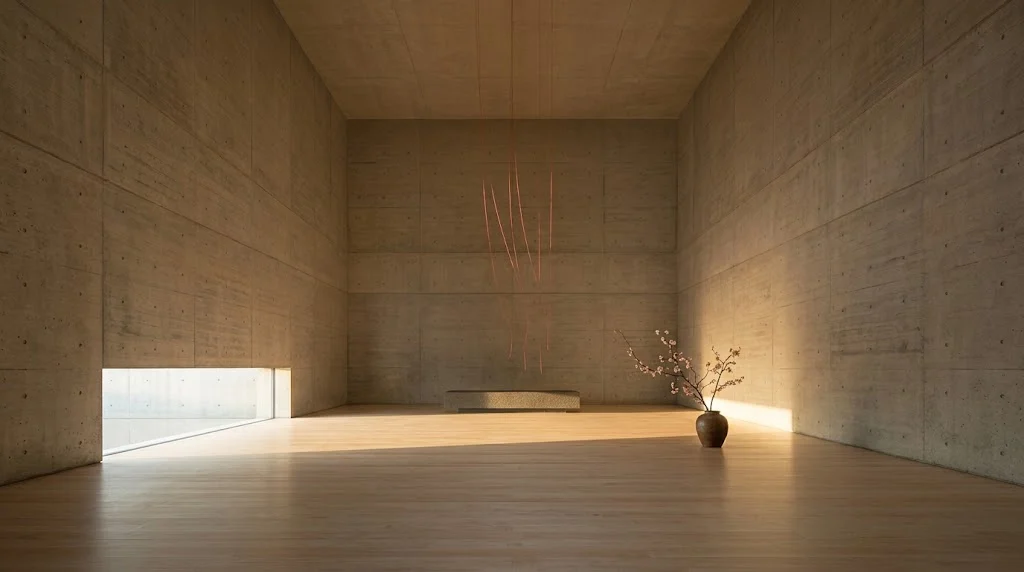
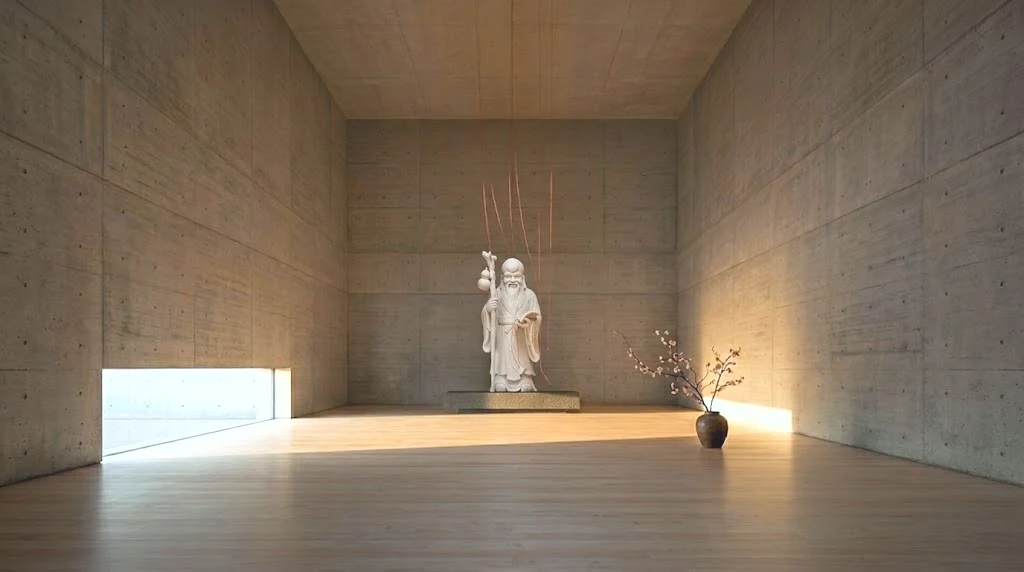
Temple halls: statues baked into color-graded photos (unified warm grey), breathing halo, tap statue to pray
Claude-Session: https://claude.ai/code/session_01WT61VZ4MhdTC2Vy4EDZdFG

diff --git a/temple/index.html b/temple/index.html
@@ -8,11 +8,13 @@
 *{box-sizing:border-box}
 html,body{margin:0;height:100%;background:#1c1b19;color:var(--ink);font-family:"Noto Serif TC","Songti TC","PMingLiU",serif;overflow:hidden;-webkit-tap-highlight-color:transparent}
 #bg{position:fixed;inset:0;width:100%;height:100%;object-fit:cover;transition:opacity .7s}
-#gl{position:fixed;inset:0;width:100%;height:100%;touch-action:none;transition:opacity .7s}
-#shadow{position:fixed;pointer-events:none;border-radius:50%;background:radial-gradient(closest-side,rgba(0,0,0,.42),rgba(0,0,0,0));transition:opacity .7s}
-.fade #bg,.fade #gl,.fade #shadow{opacity:0}
-#veil{position:fixed;inset:0;pointer-events:none;background:linear-gradient(rgba(0,0,0,.35),rgba(0,0,0,0) 22%,rgba(0,0,0,0) 62%,rgba(0,0,0,.55))}
-#glow{position:fixed;inset:0;pointer-events:none;opacity:0;transition:opacity 2.2s;background:radial-gradient(40% 55% at 50% 58%,rgba(255,248,226,.35),rgba(255,248,226,0))}
+#hit{position:fixed;background:none;border:0;padding:0;cursor:pointer;border-radius:40% 40% 8px 8px}
+#halo{position:fixed;pointer-events:none;border-radius:50%;background:radial-gradient(closest-side,rgba(255,250,236,.22),rgba(255,250,236,0));mix-blend-mode:screen;animation:breath 7s ease-in-out infinite}
+@keyframes breath{0%,100%{opacity:.15}50%{opacity:.75}}
+.calm #halo{animation:none;opacity:1;transition:opacity 1.5s}
+.fade #bg,.fade #halo{opacity:0}
+#veil{position:fixed;inset:0;pointer-events:none;background:linear-gradient(rgba(0,0,0,.22),rgba(0,0,0,0) 16%,rgba(0,0,0,0) 74%,rgba(0,0,0,.32))}
+#glow{position:fixed;inset:0;pointer-events:none;opacity:0;transition:opacity 2.2s;background:rgba(255,248,230,.06)}
 .calm #glow{opacity:1}
 header{position:fixed;top:calc(12px + env(safe-area-inset-top));left:0;right:0;text-align:center;pointer-events:none}
 header h1{margin:0;font-size:22px;letter-spacing:.3em;font-weight:500;text-shadow:0 1px 10px rgba(0,0,0,.7),0 0 2px rgba(0,0,0,.5)}
@@ -25,7 +27,7 @@ footer{position:fixed;left:0;right:0;bottom:calc(14px + env(safe-area-inset-bott
 #halls{display:flex;gap:6px}
 #halls button{font:inherit;font-size:14px;color:var(--mute);background:none;border:0;padding:6px 10px;cursor:pointer;letter-spacing:.1em;border-bottom:1px solid transparent}
 #halls button.on{color:var(--ink);border-bottom-color:var(--ink)}
-#hint{font-size:13px;color:var(--mute);min-height:1.2em;text-align:center;letter-spacing:.08em;transition:opacity .6s}
+#hint{font-size:13px;color:var(--ink);text-shadow:0 1px 6px rgba(0,0,0,.85);min-height:1.2em;text-align:center;letter-spacing:.08em;transition:opacity .6s}
 .sheet{position:fixed;inset:0;z-index:10;display:flex;align-items:flex-end;justify-content:center;background:rgba(0,0,0,.35)}
 .sheet[hidden]{display:none}
 .box{width:min(520px,100%);max-height:82vh;overflow:auto;background:#24211e;border:1px solid var(--line);border-radius:20px 20px 0 0;padding:20px 18px calc(18px + env(safe-area-inset-bottom))}
@@ -49,8 +51,7 @@ label.f{display:block;font-size:13px;color:var(--mute);margin:10px 0 6px}
 </style>
 </head><body>
 <img id="bg" alt="">
-<canvas id="gl"></canvas>
-<div id="shadow"></div>
+<div id="halo"></div><button id="hit" aria-label="參拜神像"></button>
 <div id="veil"></div><div id="glow"></div>
 <header><h1 id="ttl"></h1><p id="sub"></p></header>
 <button class="btn" id="back">← 前殿</button>
@@ -62,17 +63,16 @@ label.f{display:block;font-size:13px;color:var(--mute);margin:10px 0 6px}
 </footer>
 <div class="sheet" id="sheet" hidden><div class="box" id="box" role="dialog" aria-modal="true"></div></div>
 <script src="../sync/origina-sync.js" data-app="bedside" data-folder="Bedside" data-keys="origina.bedside.v1,origina.prayer.v1" data-pos="br" data-offset="160"></script>
-<script src="../three.min.js"></script>
 <script>
 "use strict";
 const PKEY="origina.prayer.v1";
 const HALLS={
-  yuelao:{name:"月老殿",sub:"愛・先愛自己，再遇見對的人",img:"img/yuelao.webp",px:[512,393],h:1.55,
-    ask:"想對自己說的愛，或想遇見什麼樣的人？",hint:"點月老，說說心裡的愛",light:[0xFFD2A0,-1,.35,.7,1.25],amb:0x6b5a4a},
-  mazu:{name:"媽祖殿",sub:"出發平安・旅行、手術、上台",img:"img/mazu.webp",px:[512,394],h:1.65,
-    ask:"要去哪裡？為了什麼出發？",hint:"點媽祖，求出發平安",dated:1,light:[0xE4EEFF,0,1,.35,1.2],amb:0x4c5664},
-  caishen:{name:"財神殿",sub:"豐盛・夠用，而且越來越多",img:"img/caishen.webp",px:[512,393],h:1.5,
-    ask:"想要什麼樣的豐盛？可以寫數字，也可以寫畫面。",hint:"點財神爺，說說想要的豐盛",light:[0xFFD98A,.2,1,.6,1.0],amb:0x5e4f3a}
+  yuelao:{name:"月老殿",sub:"愛・先愛自己，再遇見對的人",img:"img/yuelao.webp",stat:[474,252,550,394],
+    ask:"想對自己說的愛，或想遇見什麼樣的人？",hint:"點月老，說說心裡的愛"},
+  mazu:{name:"媽祖殿",sub:"出發平安・旅行、手術、上台",img:"img/mazu.webp",stat:[474,182,550,394],
+    ask:"要去哪裡？為了什麼出發？",hint:"點媽祖，求出發平安",dated:1},
+  caishen:{name:"財神殿",sub:"豐盛・夠用，而且越來越多",img:"img/caishen.webp",stat:[462,206,562,394],
+    ask:"想要什麼樣的豐盛？可以寫數字，也可以寫畫面。",hint:"點財神爺，說說想要的豐盛"}
 };
 const ORDER=["yuelao","mazu","caishen"];
 const ls=(k,v)=>{try{if(v===undefined)return JSON.parse(localStorage.getItem(k)||"null");localStorage.setItem(k,JSON.stringify(v));}catch(e){return null;}};
@@ -81,91 +81,24 @@ const esc=s=>String(s==null?"":s).replace(/[&<>"']/g,c=>({"&":"&amp;","<":"&lt;"
 const pad=n=>String(n).padStart(2,"0"),ymd=d=>`${d.getFullYear()}-${pad(d.getMonth()+1)}-${pad(d.getDate())}`;
 let cur=new URLSearchParams(location.search).get("d");if(!HALLS[cur])cur="mazu";
 
-/* ---------- 3D 神像（白色，像石膏） ---------- */
-const R=THREE,canvas=$("#gl");
-const ren=new R.WebGLRenderer({canvas,alpha:true,antialias:true});ren.setPixelRatio(Math.min(devicePixelRatio,2));
-const scene=new R.Scene(),cam=new R.OrthographicCamera(-1,1,1,-1,-5000,5000);
-const hemi=new R.HemisphereLight(0xffffff,0x444444,.55);scene.add(hemi);
-const key=new R.DirectionalLight(0xffffff,1.2);scene.add(key);
-const rim=new R.DirectionalLight(0xffffff,.25);rim.position.set(.3,.4,-1);scene.add(rim);
-const W=new R.MeshStandardMaterial({color:0xECE8E0,roughness:.7,metalness:0});
-const GOLD=new R.MeshStandardMaterial({color:0xE6D29C,roughness:.45,metalness:.25});
-const RED=new R.MeshStandardMaterial({color:0xC8323C,roughness:.5});
-const V=(x,y)=>new R.Vector2(x,y);
-function add(g,geo,m,x,y,z,rx,ry,rz,sx,sy,sz){const o=new R.Mesh(geo,m||W);o.position.set(x||0,y||0,z||0);o.rotation.set(rx||0,ry||0,rz||0);if(sx)o.scale.set(sx,sy,sz);g.add(o);return o;}
-function lathe(pts){return new R.LatheGeometry(pts.map(p=>V(p[0],p[1])),48);}
-function lotus(g,r){add(g,new R.CylinderGeometry(r,r*1.08,.035,40),W,0,.0175,0);
-  for(let i=0;i<16;i++){const a=i/16*Math.PI*2,p=add(g,new R.SphereGeometry(.05,16,10),W,Math.sin(a)*r*.92,.05,Math.cos(a)*r*.92,0,a,0,.55,.45,.9);p.rotation.x=-.35;p.rotation.order="YXZ";}}
-function sleeve(g,x,y,z,s){const o=add(g,lathe([[0,-.13],[.055,-.13],[.06,-.11],[.05,-.02],[.036,.06],[.028,.1],[0,.1]]),W,x,y,z,.18,0,x>0?.12:-.12,s,s,s*.85);return o;}
-function shoulder(g,y,r){add(g,new R.SphereGeometry(r,32,16,0,Math.PI*2,0,Math.PI/2),W,0,y,0,0,0,0,1,.32,.8);}
-function buildMazu(){const g=new R.Group();lotus(g,.19);
-  add(g,lathe([[0,.05],[.165,.05],[.17,.12],[.15,.32],[.125,.5],[.112,.6],[.122,.655],[.13,.672],[.07,.7],[.04,.712],[0,.715]]),W,0,0,0);
-  add(g,new R.TorusGeometry(.075,.016,10,36),W,0,.69,0,Math.PI/2,0,0,1,1,.6);   // 雲肩
-  shoulder(g,.665,.13);sleeve(g,-.105,.53,.035,1);sleeve(g,.105,.53,.035,1);
-  add(g,new R.SphereGeometry(.03,14,10),W,0,.54,.115,0,0,0,1.4,.8,.9);            // 雙手
-  add(g,new R.BoxGeometry(.032,.17,.012),W,0,.6,.13,-.12,0,0);                     // 笏
-  add(g,new R.CylinderGeometry(.03,.034,.03,16),W,0,.725,0);                      // 頸
-  add(g,new R.SphereGeometry(.056,28,20),W,0,.785,0,0,0,0,1,1.08,1);              // 頭
-  add(g,new R.CylinderGeometry(.052,.058,.04,24),W,0,.84,-.004);                  // 冠
-  add(g,new R.BoxGeometry(.14,.008,.1),W,0,.865,0);                               // 冕板
-  for(let i=0;i<5;i++){const x=-.052+i*.026;for(let k=0;k<4;k++){add(g,new R.SphereGeometry(.0065,8,6),W,x,.852-k*.016,.05);add(g,new R.SphereGeometry(.0065,8,6),W,x,.852-k*.016,-.05);}}
-  return g;}
-function buildYuelao(){const g=new R.Group();lotus(g,.18);
-  add(g,lathe([[0,.05],[.16,.05],[.168,.11],[.148,.3],[.13,.46],[.138,.54],[.12,.575],[.06,.6],[.035,.612],[0,.615]]),W,0,0,0);
-  add(g,new R.TorusGeometry(.12,.012,8,40),W,0,.36,0,Math.PI/2,0,0,1,1,.9);       // 腰帶
-  shoulder(g,.57,.125);sleeve(g,-.1,.45,.035,.92);sleeve(g,.11,.46,.02,.85);
-  add(g,new R.SphereGeometry(.062,28,20),W,0,.675,.005,0,0,0,1,1.18,1);           // 頭（長壽額）
-  add(g,new R.ConeGeometry(.04,.17,18),W,0,.55,.05,Math.PI+.18,0,0);              // 長鬍
-  add(g,new R.CylinderGeometry(.007,.007,.82,10),W,.175,.45,.03);                 // 杖
-  add(g,new R.SphereGeometry(.024,14,10),W,.162,.56,.045);                        // 握杖的手
-  add(g,new R.SphereGeometry(.03,16,12),W,.21,.73,.03);add(g,new R.SphereGeometry(.021,16,12),W,.21,.775,.03); // 葫蘆
-  const book=add(g,new R.BoxGeometry(.075,.095,.022),W,-.07,.43,.11,.2,.35,0);     // 姻緣簿
-  add(g,new R.SphereGeometry(.024,14,10),W,-.045,.4,.12);
-  const c=new R.CatmullRomCurve3([[-.04,.4,.13],[.0,.33,.17],[-.06,.24,.18],[.03,.16,.19],[-.02,.09,.2],[.06,.055,.22]].map(p=>new R.Vector3(...p)));
-  add(g,new R.TubeGeometry(c,80,.0035,6,false),RED,0,0,0);                        // 紅線
-  return g;}
-function buildCaishen(){const g=new R.Group();lotus(g,.2);
-  add(g,lathe([[0,.05],[.17,.05],[.18,.1],[.195,.22],[.2,.32],[.185,.44],[.158,.54],[.15,.6],[.14,.625],[.06,.648],[.04,.66],[0,.662]]),W,0,0,0);
-  add(g,new R.TorusGeometry(.175,.014,8,44),W,0,.4,0,Math.PI/2,0,0,1,1,.85);      // 玉帶
-  shoulder(g,.62,.15);sleeve(g,-.12,.49,.05,1.05);sleeve(g,.12,.49,.05,1.05);
-  add(g,new R.SphereGeometry(.03,14,10),W,-.05,.47,.15);add(g,new R.SphereGeometry(.03,14,10),W,.05,.47,.15);
-  const ing=new R.Group();ing.position.set(0,.5,.17);g.add(ing);                  // 元寶
-  add(ing,new R.SphereGeometry(.06,28,16),GOLD,0,0,0,0,0,0,1.25,.48,.7);
-  add(ing,new R.SphereGeometry(.026,20,14),GOLD,0,.022,0,0,0,0,1,.9,1);
-  add(g,new R.SphereGeometry(.066,28,20),W,0,.725,0,0,0,0,1.05,1,1);              // 頭
-  add(g,new R.ConeGeometry(.022,.07,12),W,0,.66,.05,Math.PI+.15,0,0);             // 短鬚
-  add(g,new R.CylinderGeometry(.06,.064,.06,24),W,0,.795,-.005);                  // 官帽
-  add(g,new R.SphereGeometry(.05,24,12,0,Math.PI*2,0,Math.PI/2),W,0,.82,-.02,0,0,0,1,.7,1);
-  [-1,1].forEach(s=>add(g,new R.BoxGeometry(.11,.012,.03),W,s*.11,.815,-.03,0,0,s*.22)); // 帽翅
-  return g;}
-const BUILD={mazu:buildMazu,yuelao:buildYuelao,caishen:buildCaishen};
-let statue=null,box={x:0,y:0,w:0,h:0};
+/* ---------- 神像在照片裡；這裡只負責點得到、會呼吸的光 ---------- */
+let box={x:0,y:0,w:0,h:0};
 function setHall(id,instant){
   const H=HALLS[id];cur=id;document.body.classList.add("fade");
   const go=()=>{
     $("#bg").src=H.img;$("#ttl").textContent=H.name;$("#sub").textContent=H.sub;$("#hint").textContent=H.hint;
-    if(statue)scene.remove(statue);statue=BUILD[id]();scene.add(statue);
-    const [c,lx,ly,lz,i]=H.light;key.color.setHex(c);key.position.set(lx,ly,lz);key.intensity=i;hemi.groundColor.setHex(H.amb);
     document.querySelectorAll("#halls button").forEach(b=>b.classList.toggle("on",b.dataset.h===id));
     try{history.replaceState(null,"","?d="+id)}catch(e){}
     layout();const done=()=>document.body.classList.remove("fade");$("#bg").complete?requestAnimationFrame(done):($("#bg").onload=done);};
   instant?go():setTimeout(go,450);}
-function layout(){const w=innerWidth,h=innerHeight;ren.setSize(w,h,false);cam.left=-w/2;cam.right=w/2;cam.top=h/2;cam.bottom=-h/2;cam.updateProjectionMatrix();
-  if(!statue)return;const H=HALLS[cur],s=Math.max(w/1024,h/572),ox=(w-1024*s)/2,oy=(h-572*s)/2;
-  const bx=ox+H.px[0]*s,by=oy+H.px[1]*s,sz=135*s*H.h/.88*.8;   // 台座寬 135px
-  statue.position.set(bx-w/2,h/2-by,0);statue.scale.setScalar(sz);
-  box={x:bx-sz*.22,y:by-sz*.9,w:sz*.44,h:sz*.9};
-  const sh=$("#shadow");sh.style.width=(sz*.5)+"px";sh.style.height=(sz*.07)+"px";sh.style.left=(bx-sz*.25)+"px";sh.style.top=(by-sz*.035)+"px";}
+function layout(){const w=innerWidth,h=innerHeight,H=HALLS[cur],s=Math.max(w/1024,h/572),ox=(w-1024*s)/2,oy=(h-572*s)/2;
+  const [x0,y0,x1,y1]=H.stat;box={x:ox+x0*s,y:oy+y0*s,w:(x1-x0)*s,h:(y1-y0)*s};
+  const hit=$("#hit");Object.assign(hit.style,{left:box.x+"px",top:box.y+"px",width:box.w+"px",height:box.h+"px"});
+  const r=Math.max(box.w,box.h)*1.1,cx=box.x+box.w/2,cy=box.y+box.h*.45;
+  Object.assign($("#halo").style,{left:(cx-r)+"px",top:(cy-r)+"px",width:2*r+"px",height:2*r+"px"});}
 addEventListener("resize",layout);
 ORDER.forEach(id=>{const b=document.createElement("button");b.textContent=HALLS[id].name;b.dataset.h=id;b.onclick=()=>id!==cur&&setHall(id);$("#halls").appendChild(b);});
-
-/* 拖曳轉一轉，放手慢慢回正；點一下＝合十 */
-let yaw=0,drag=null,t0=performance.now();
-canvas.addEventListener("pointerdown",e=>{drag={x:e.clientX,y:e.clientY,yaw,moved:0};canvas.setPointerCapture(e.pointerId);});
-canvas.addEventListener("pointermove",e=>{if(!drag)return;const dx=e.clientX-drag.x;drag.moved=Math.max(drag.moved,Math.abs(dx)+Math.abs(e.clientY-drag.y));yaw=drag.yaw+dx*.01;});
-canvas.addEventListener("pointerup",e=>{const d=drag;drag=null;if(d&&d.moved<8){const b=box;if(e.clientX>b.x&&e.clientX<b.x+b.w&&e.clientY>b.y&&e.clientY<b.y+b.h)pray();}});
-function loop(t){requestAnimationFrame(loop);if(!drag)yaw*=.94;if(statue){statue.rotation.y=yaw+Math.sin((t-t0)/1000*.35)*.18;}ren.render(scene,cam);}
-requestAnimationFrame(loop);
+$("#hit").onclick=()=>pray();
 
 /* ---------- 鈴 ---------- */
 let actx=null,abuf=null;
